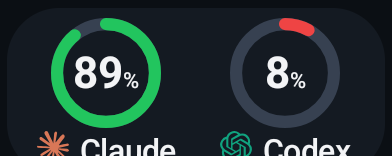
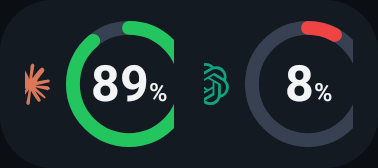
fix(android): the 2x1 widget no longer clips the provider name
Stacking a 42 dp ring over a 12sp name needs more vertical room than a 2 x 1
cell has once the launcher's own insets are taken out, so the name rendered
half cut off at the bottom edge. The name is gone: the brand mark now sits
inline to the left of the ring and carries the identity on its own, which is
what a 12sp label could not do at arm's length anyway.

The ring took the pixels the name was using — 48 dp instead of 42, its value
bold at ~19sp — and it is sized from the height that is actually left rather
than fixed, so a shorter cell shrinks it instead of overflowing. Under 56 dp
there is no room for a ring at all and the mark keeps company with a plain
percentage. Each provider gets 6 dp of horizontal padding, without which the
second mark sat closer to the first provider's ring than to its own.

Screenshots recaptured on emulator-5554 at 160 x 80 dp, light and dark.

diff --git a/android/app/src/main/kotlin/com/gorisse/thomas/quota/widget/QuotaWidget.kt b/android/app/src/main/kotlin/com/gorisse/thomas/quota/widget/QuotaWidget.kt
@@ -97,22 +97,40 @@ class QuotaWidget : GlanceAppWidget() {
     }
 }
 
-/** Use the actual host size: the old 110 × 40 breakpoint shrank even spacious cells. */
+/**
+ * A 2 x 1 cell is one row high once the launcher's own widget insets are taken out, so the
+ * ring and the provider name cannot be stacked — the name was rendering half cut off. The
+ * mark carries the identity instead, inline with the ring, which also buys the ring the
+ * pixels the name was wasting. The ring is sized from the height that is actually left.
+ */
 @Composable
 private fun SmallContent(snapshot: Snapshot, mode: DisplayMode) {
     val stale = snapshot.isStale()
     val height = LocalSize.current.height.value
+    val diameter = (height - 30).toInt().coerceIn(30, 48)
     Row(GlanceModifier.fillMaxWidth(), verticalAlignment = Alignment.Vertical.CenterVertically) {
         ProviderId.entries.forEach { id ->
             val window = snapshot.status.providers[id.key]?.sessionWindow()
-            Column(GlanceModifier.defaultWeight(), horizontalAlignment = Alignment.Horizontal.CenterHorizontally) {
-                if (height >= 64) {
-                    MiniRing(window, stale, diameterDp = 42, mode = mode)
-                    ProviderLabel(id)
+            Row(
+                // Without this the second provider's mark sits closer to the first
+                // provider's ring than to its own; the pair stops reading as a pair.
+                GlanceModifier.defaultWeight().padding(horizontal = 6.dp),
+                verticalAlignment = Alignment.Vertical.CenterVertically,
+                horizontalAlignment = Alignment.Horizontal.CenterHorizontally,
+            ) {
+                if (height >= 56) {
+                    ProviderMark(id, sizeDp = 16)
+                    Spacer(GlanceModifier.size(6.dp))
+                    MiniRing(window, stale, diameterDp = diameter, mode = mode)
                 } else {
-                    ProviderLabel(id)
-                    Text(window?.let { "${it.shown(mode)}%" } ?: "—",
-                        style = TextStyle(color = primaryText(), fontSize = 16.sp, fontWeight = FontWeight.Bold), maxLines = 1)
+                    // Too short for a ring at all: the mark and the number, nothing else.
+                    ProviderMark(id, sizeDp = 14)
+                    Spacer(GlanceModifier.size(5.dp))
+                    Text(
+                        window?.let { "${it.shown(mode)}%" } ?: "\u2014",
+                        style = TextStyle(color = primaryText(), fontSize = 16.sp, fontWeight = FontWeight.Bold),
+                        maxLines = 1,
+                    )
                 }
             }
         }
@@ -242,16 +260,6 @@ private fun ProviderMark(id: ProviderId?, sizeDp: Int = 14) {
         colorFilter = ColorFilter.tint(ColorProvider(id.accent)),
         modifier = GlanceModifier.size(sizeDp.dp),
     )
-}
-
-@Composable
-private fun ProviderLabel(id: ProviderId) {
-    Row(verticalAlignment = Alignment.Vertical.CenterVertically) {
-        ProviderMark(id, sizeDp = 12)
-        Spacer(GlanceModifier.size(4.dp))
-        Text(id.displayName, style = TextStyle(color = primaryText(), fontSize = 12.sp,
-            fontWeight = FontWeight.Medium), maxLines = 1)
-    }
 }
 
 private fun Provider.sessionWindow(): Window? = widgetWindows(1).firstOrNull()
